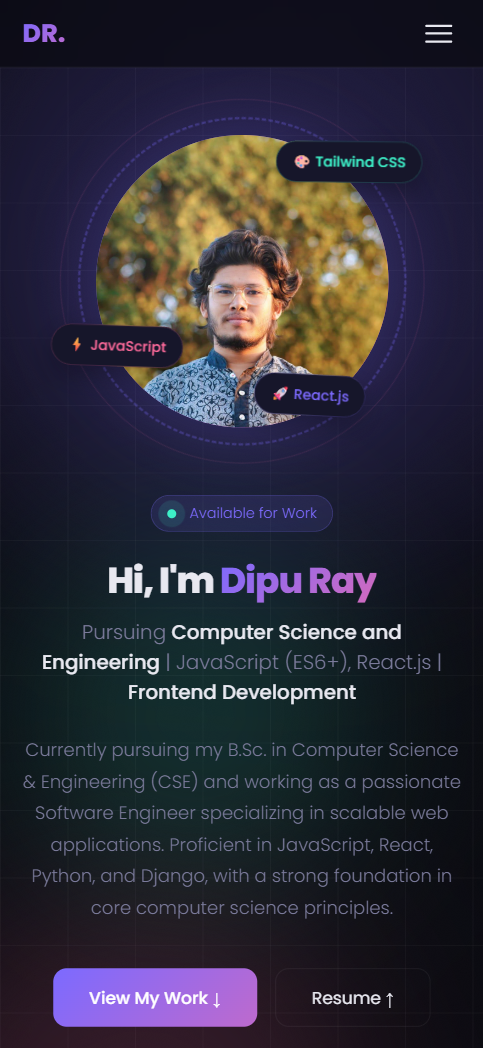
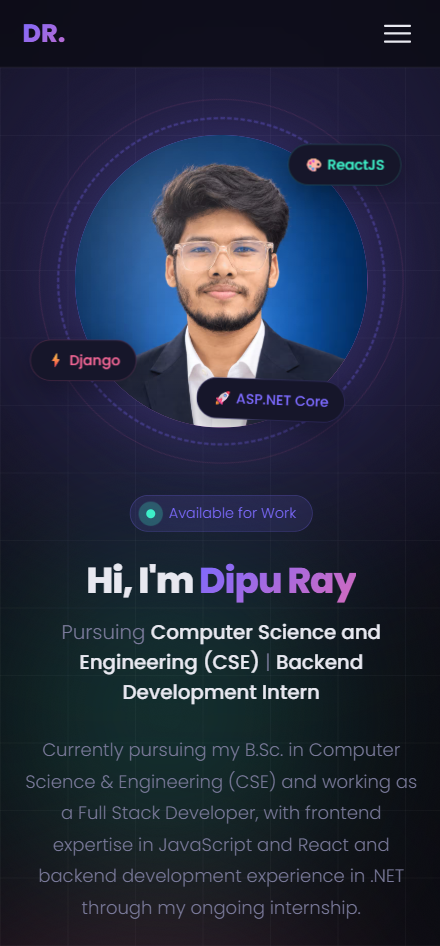
Update preview and date

Changed region(s): [[0.0591, 0.1226, 0.9455, 0.981], [0.1477, 0.0, 0.975, 0.092], [0.0295, 0.0, 0.1477, 0.0613]]

diff --git a/README.md b/README.md
@@ -15,7 +15,7 @@ _Crafting clean UIs & smooth interactions, one component at a time._
 </a>
 
 ![Started](https://img.shields.io/badge/Started-June%203%2C%202025-informational?style=flat-square&logo=github&logoColor=white&labelColor=0f6e56)
-![Last Updated](https://img.shields.io/badge/Last%20Updated-September%2025%2C%202026-informational?style=flat-square&logo=github&logoColor=white&labelColor=0A66C2)
+![Last Updated](https://img.shields.io/badge/Last%20Updated-October%2021%2C%202026-informational?style=flat-square&logo=github&logoColor=white&labelColor=0A66C2)
 
 </div>
 
